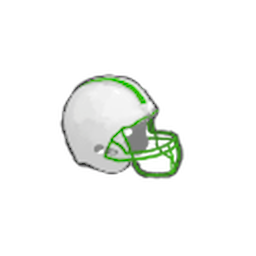
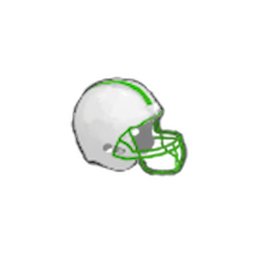
Fix and refine functionalities across SlimeBoss and other modules: correct localization typo in SLURP description, add missing block action in Reformation card, adjust SchemePower removal logic, handle null choice in PlatinumCore relic, and update Protective Gear image asset.

Changed region(s): [[0.2188, 0.2812, 0.75, 0.7188]]

diff --git a/AwakenedCode/Powers/SchemePower.cs b/AwakenedCode/Powers/SchemePower.cs
@@ -20,7 +20,7 @@ public class SchemePower : AwakenedPowerModel
 
     public override async Task AfterSideTurnEnd(PlayerChoiceContext ctx, CombatSide side, IEnumerable<Creature> participants)
     {
-        if (side == Owner.Side)
-            await PowerCmd.Remove(this);
+        if (!participants.Contains(Owner)) return;
+        await PowerCmd.Remove(this);
     }
 }

diff --git a/AutomatonCode/Relics/PlatinumCore.cs b/AutomatonCode/Relics/PlatinumCore.cs
@@ -39,7 +39,8 @@ public class PlatinumCore : AutomatonRelicModel
             .GetUnlockedCards(Owner.UnlockState, Owner.RunState.CardMultiplayerConstraint)
             .Where(c => AutomatonCmd.IsEncodable(c) && c.Rarity != CardRarity.Token).ToList();
         var rng = Owner.RunState.Rng.CombatCardSelection;
-        var choice = CardFactory.GetDistinctForCombat(Owner, cards, 1, rng).First();
+        var choice = CardFactory.GetDistinctForCombat(Owner, cards, 1, rng).FirstOrDefault();
+        if (choice == null) return;
         await CardPileCmd.Add(choice, PileType.Hand);
     }
 }

diff --git a/SlimeBossCode/Cards/Common/Reformation.cs b/SlimeBossCode/Cards/Common/Reformation.cs
@@ -22,6 +22,7 @@ public class Reformation : SlimeBossCardModel
 
     protected override async Task OnPlay(PlayerChoiceContext ctx, CardPlay cardPlay)
     {
+        await CommonActions.CardBlock(this, cardPlay);
         var prefs = new CardSelectorPrefs(DownfallCardSelectorPrefs.ToTopSelectionPrompt, DynamicVars.Cards.IntValue);
         var cards = await CardSelectCmd.FromCombatPile(ctx, PileType.Discard.GetPile(Owner), Owner, prefs);
         await CardPileCmd.Add(cards, PileType.Draw, CardPilePosition.Top);